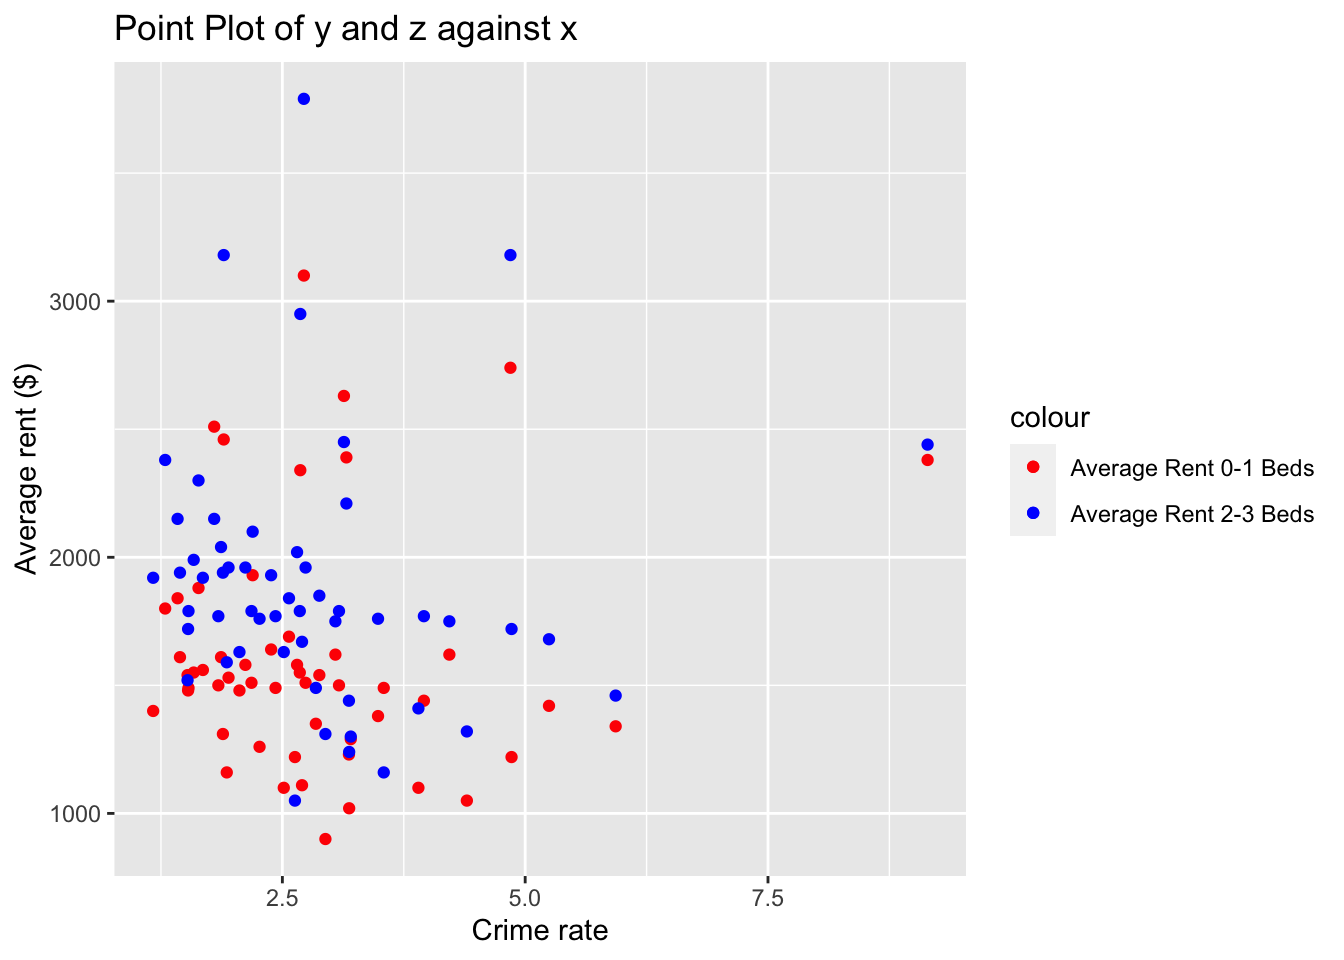
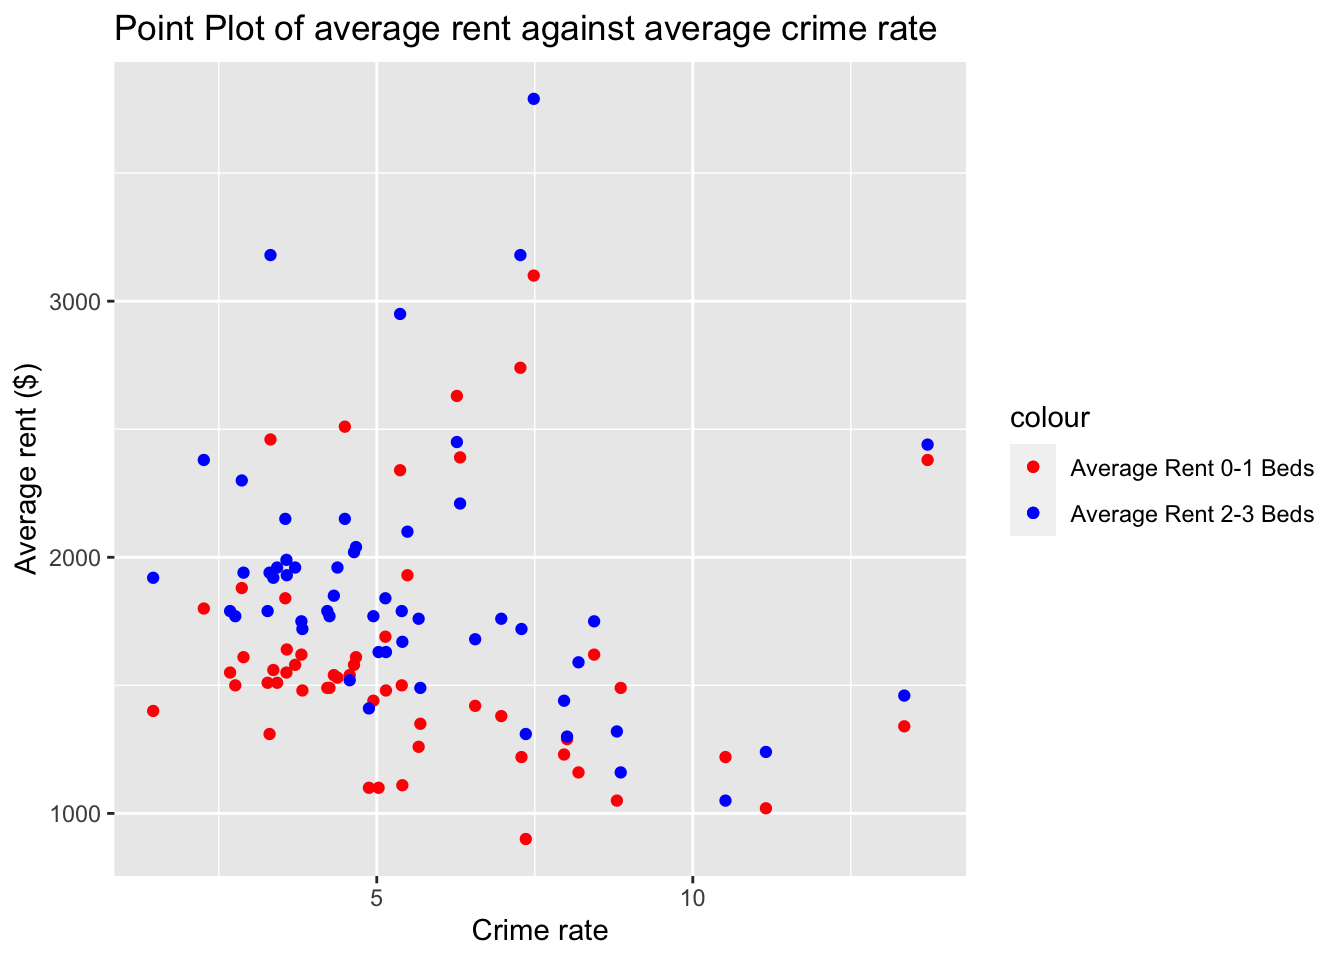
amended SES data reading

diff --git a/eda_social.html b/eda_social.html
@@ -404,9 +404,7 @@ div.tocify {
 </div>
 
 
-<p>Import and clead NYPD data</p>
-<p>Import and clean socio-economic data</p>
-<pre class="r"><code>#neighbor_SES has SES indicators (except rent) for each neighborhood 
+<pre class="r"><code>#Import and clean socio-economic data. neighbor_SES has SES indicators (except rent) for each neighborhood 
 neighbor_ses = readxl::read_excel(&quot;data/neighorhood_indicators.xlsx&quot;, sheet = &quot;Data&quot;) |&gt; 
   janitor::clean_names() |&gt; 
   filter(region_type == &quot;Sub-Borough Area&quot;) |&gt; 
@@ -423,7 +421,7 @@ neighbor_rent = readxl::read_excel(&quot;data/neighorhood_indicators.xlsx&quot;,
   select(neighborhood, gross_rent_0_1beds, gross_rent_2_3beds)</code></pre>
 <pre class="r"><code>#ses_df has crime rate and SES indicators for each neighborhood
 ses_df = nypd_ses_df |&gt; 
-  group_by(year, neighborhood, borough) |&gt; 
+  group_by(year, borough, neighborhood) |&gt; 
   summarise(crime_num = n())
 
 ses_df = ses_df |&gt; merge(neighbor_ses, by = c(&quot;year&quot;, &quot;neighborhood&quot;)) |&gt; 
@@ -436,9 +434,9 @@ ses_df = ses_df |&gt; merge(neighbor_ses, by = c(&quot;year&quot;, &quot;neighbo
 <h1>Crime type</h1>
 <div
 id="what-are-the-top-5-neighborhoods-with-highest-average-crime-rate"
-class="section level2">
-<h2>What are the top 5 neighborhoods with highest average crime
-rate?</h2>
+class="section level3">
+<h3>What are the top 5 neighborhoods with highest average crime
+rate?</h3>
 <pre class="r"><code>ses_df |&gt; group_by(borough, neighborhood) |&gt;
   summarise(avg_crime_rate = mean(crime_rate, na.rm = TRUE)) |&gt; 
   arrange(desc(avg_crime_rate)) |&gt; head(5) |&gt; knitr::kable()</code></pre>
@@ -452,38 +450,37 @@ rate?</h2>
 </thead>
 <tbody>
 <tr class="odd">
-<td align="left">MANHATTAN</td>
+<td align="left">Manhattan</td>
 <td align="left">Chelsea/Clinton/Midtown</td>
-<td align="right">13.706981</td>
+<td align="right">13.715018</td>
 </tr>
 <tr class="even">
-<td align="left">BRONX</td>
+<td align="left">Bronx</td>
 <td align="left">University Heights/Fordham</td>
-<td align="right">13.344641</td>
+<td align="right">13.346104</td>
 </tr>
 <tr class="odd">
-<td align="left">BRONX</td>
+<td align="left">Bronx</td>
 <td align="left">Mott Haven/Hunts Point</td>
-<td align="right">11.154689</td>
+<td align="right">11.156934</td>
 </tr>
 <tr class="even">
-<td align="left">MANHATTAN</td>
+<td align="left">Manhattan</td>
 <td align="left">East Harlem</td>
-<td align="right">10.498538</td>
+<td align="right">10.517314</td>
 </tr>
 <tr class="odd">
-<td align="left">MANHATTAN</td>
+<td align="left">Manhattan</td>
 <td align="left">Lower East Side/Chinatown</td>
-<td align="right">8.829966</td>
+<td align="right">8.859599</td>
 </tr>
 </tbody>
 </table>
 </div>
 <div id="what-are-the-most-common-types-of-crime-in-these-neighborhoods"
-class="section level2">
-<h2>What are the most common types of crime in these neighborhoods?</h2>
-<div id="chelseaclintonmidtown" class="section level3">
-<h3>Chelsea/Clinton/Midtown:</h3>
+class="section level3">
+<h3>What are the most common types of crime in these neighborhoods?</h3>
+<p>Chelsea/Clinton/Midtown:</p>
 <pre class="r"><code>nypd_ses_df |&gt; 
   filter(neighborhood ==&quot;Chelsea/Clinton/Midtown&quot;) |&gt; 
   count(ofns_desc) |&gt; 
@@ -491,11 +488,12 @@ class="section level2">
   head(5) |&gt; 
   mutate(percentage = scales::percent(n / sum(n), scale = 100)) |&gt; 
   select(ofns_desc, percentage) |&gt; 
+  rename(crime_type = ofns_desc) |&gt; 
   knitr::kable()</code></pre>
 <table>
 <thead>
 <tr class="header">
-<th align="left">ofns_desc</th>
+<th align="left">crime_type</th>
 <th align="left">percentage</th>
 </tr>
 </thead>
@@ -522,9 +520,7 @@ class="section level2">
 </tr>
 </tbody>
 </table>
-</div>
-<div id="university-heightsfordham" class="section level3">
-<h3>University Heights/Fordham:</h3>
+<p>University Heights/Fordham:</p>
 <pre class="r"><code>nypd_ses_df |&gt; 
   filter(neighborhood == &quot;University Heights/Fordham&quot;) |&gt; 
   count(ofns_desc) |&gt; 
@@ -532,11 +528,12 @@ class="section level2">
   head(5) |&gt; 
   mutate(percentage = scales::percent(n / sum(n), scale = 100)) |&gt; 
   select(ofns_desc, percentage) |&gt; 
-  knitr::kable()</code></pre>
+  rename(crime_type = ofns_desc) |&gt;
+  knitr::kable() </code></pre>
 <table>
 <thead>
 <tr class="header">
-<th align="left">ofns_desc</th>
+<th align="left">crime_type</th>
 <th align="left">percentage</th>
 </tr>
 </thead>
@@ -563,9 +560,7 @@ class="section level2">
 </tr>
 </tbody>
 </table>
-</div>
-<div id="mott-havenhunts-point-bronx" class="section level3">
-<h3>Mott Haven/Hunts Point, Bronx:</h3>
+<p>Mott Haven/Hunts Point:</p>
 <pre class="r"><code>nypd_ses_df |&gt; 
   filter(neighborhood == &quot;Mott Haven/Hunts Point&quot;) |&gt; 
   count(ofns_desc) |&gt; 
@@ -573,11 +568,12 @@ class="section level2">
   head(5) |&gt; 
   mutate(percentage = scales::percent(n / sum(n), scale = 100)) |&gt; 
   select(ofns_desc, percentage) |&gt; 
-  knitr::kable()</code></pre>
+  rename(crime_type = ofns_desc) |&gt;
+  knitr::kable() </code></pre>
 <table>
 <thead>
 <tr class="header">
-<th align="left">ofns_desc</th>
+<th align="left">crime_type</th>
 <th align="left">percentage</th>
 </tr>
 </thead>
@@ -604,9 +600,7 @@ class="section level2">
 </tr>
 </tbody>
 </table>
-</div>
-<div id="east-harlem-manhattan" class="section level3">
-<h3>East Harlem, Manhattan:</h3>
+<p>East Harlem:</p>
 <pre class="r"><code>nypd_ses_df |&gt; 
   filter(neighborhood == &quot;East Harlem&quot;) |&gt; 
   count(ofns_desc) |&gt; 
@@ -614,11 +608,12 @@ class="section level2">
   head(5) |&gt; 
   mutate(percentage = scales::percent(n / sum(n), scale = 100)) |&gt; 
   select(ofns_desc, percentage) |&gt; 
-  knitr::kable()</code></pre>
+  rename(crime_type = ofns_desc) |&gt;
+  knitr::kable() </code></pre>
 <table>
 <thead>
 <tr class="header">
-<th align="left">ofns_desc</th>
+<th align="left">crime_type</th>
 <th align="left">percentage</th>
 </tr>
 </thead>
@@ -645,21 +640,20 @@ class="section level2">
 </tr>
 </tbody>
 </table>
-</div>
-<div id="lower-east-sidechinatown-manhattan" class="section level3">
-<h3>Lower East Side/Chinatown, Manhattan:</h3>
+<p>Lower East Side/Chinatown:</p>
 <pre class="r"><code>nypd_ses_df |&gt; 
   filter(neighborhood == &quot;Lower East Side/Chinatown&quot;) |&gt; 
   count(ofns_desc) |&gt; 
   arrange(desc(n)) |&gt; 
   head(5) |&gt; 
   mutate(percentage = scales::percent(n / sum(n), scale = 100)) |&gt; 
-  select(ofns_desc, percentage) |&gt; 
-  knitr::kable()</code></pre>
+  select(ofns_desc, percentage) |&gt;
+  rename(crime_type = ofns_desc) |&gt;
+  knitr::kable() </code></pre>
 <table>
 <thead>
 <tr class="header">
-<th align="left">ofns_desc</th>
+<th align="left">crime_type</th>
 <th align="left">percentage</th>
 </tr>
 </thead>
@@ -688,12 +682,11 @@ class="section level2">
 </table>
 </div>
 </div>
-</div>
 <div id="line-plot" class="section level1">
 <h1>Line plot</h1>
 <div id="is-there-an-association-between-rent-and-crime-rate"
-class="section level2">
-<h2>Is there an association between rent and crime rate?</h2>
+class="section level3">
+<h3>Is there an association between rent and crime rate?</h3>
 <pre class="r"><code>ses_df |&gt; group_by(neighborhood) |&gt; 
   summarise(avg_rent_0_1beds = mean(gross_rent_0_1beds), 
             avg_rent_2_3beds = mean(gross_rent_2_3beds)
@@ -702,7 +695,7 @@ class="section level2">
   geom_point(aes(y = avg_rent_0_1beds, color = &quot;Average Rent 0-1 Beds&quot;)) +
   geom_point(aes(y = avg_rent_2_3beds, color = &quot;Average Rent 2-3 Beds&quot;)) +
   scale_color_manual(values = c(&quot;Average Rent 0-1 Beds&quot; = &quot;red&quot;, &quot;Average Rent 2-3 Beds&quot; = &quot;blue&quot;)) +
-  labs(title = &quot;Point Plot of y and z against x&quot;,
+  labs(title = &quot;Point Plot of average rent against average crime rate&quot;,
        x = &quot;Crime rate&quot;,
        y = &quot;Average rent ($)&quot;) </code></pre>
 <p><img src="eda_social_files/figure-html/unnamed-chunk-10-1.png" width="672" /></p>
